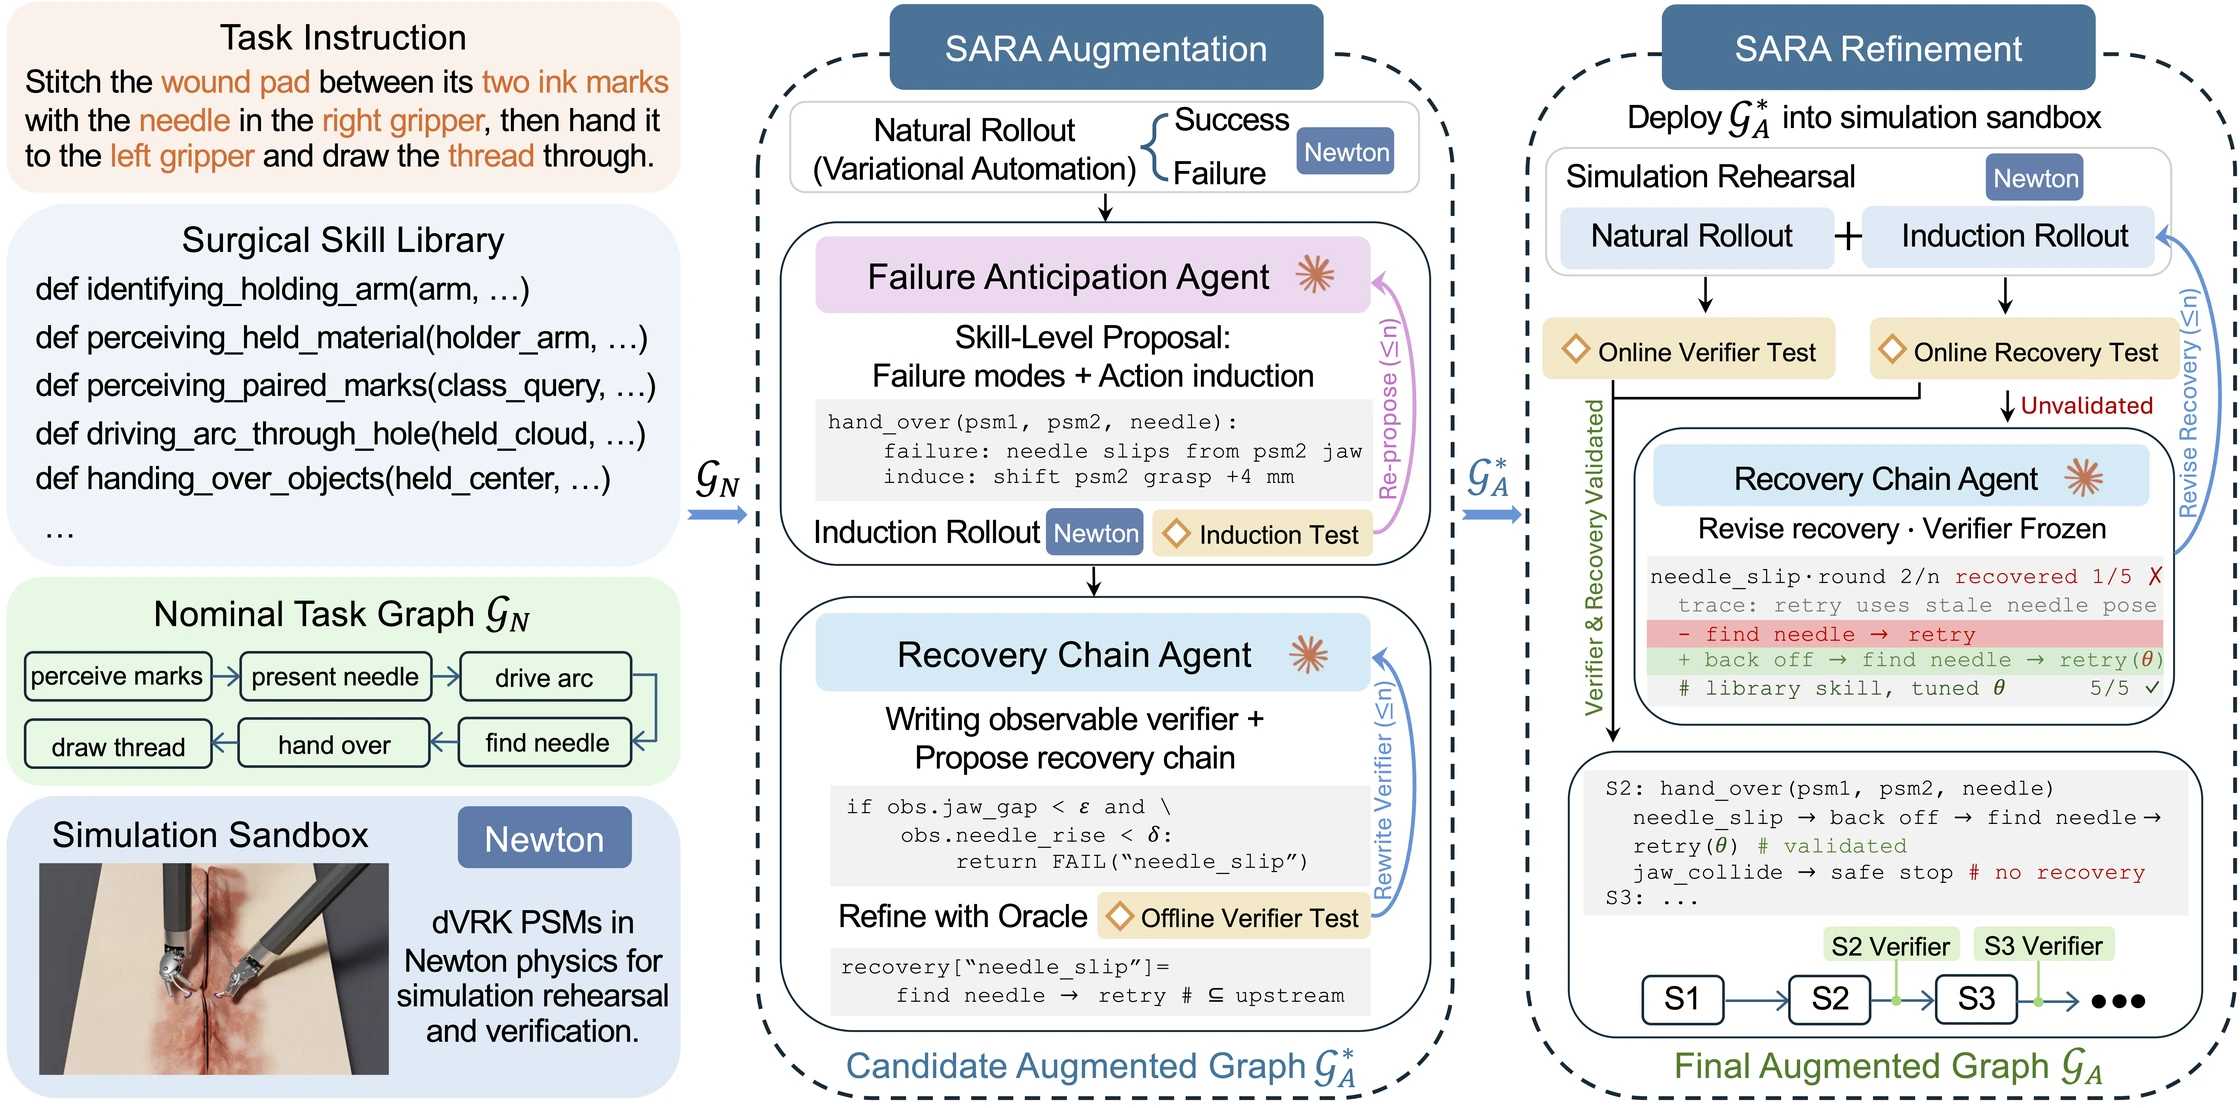
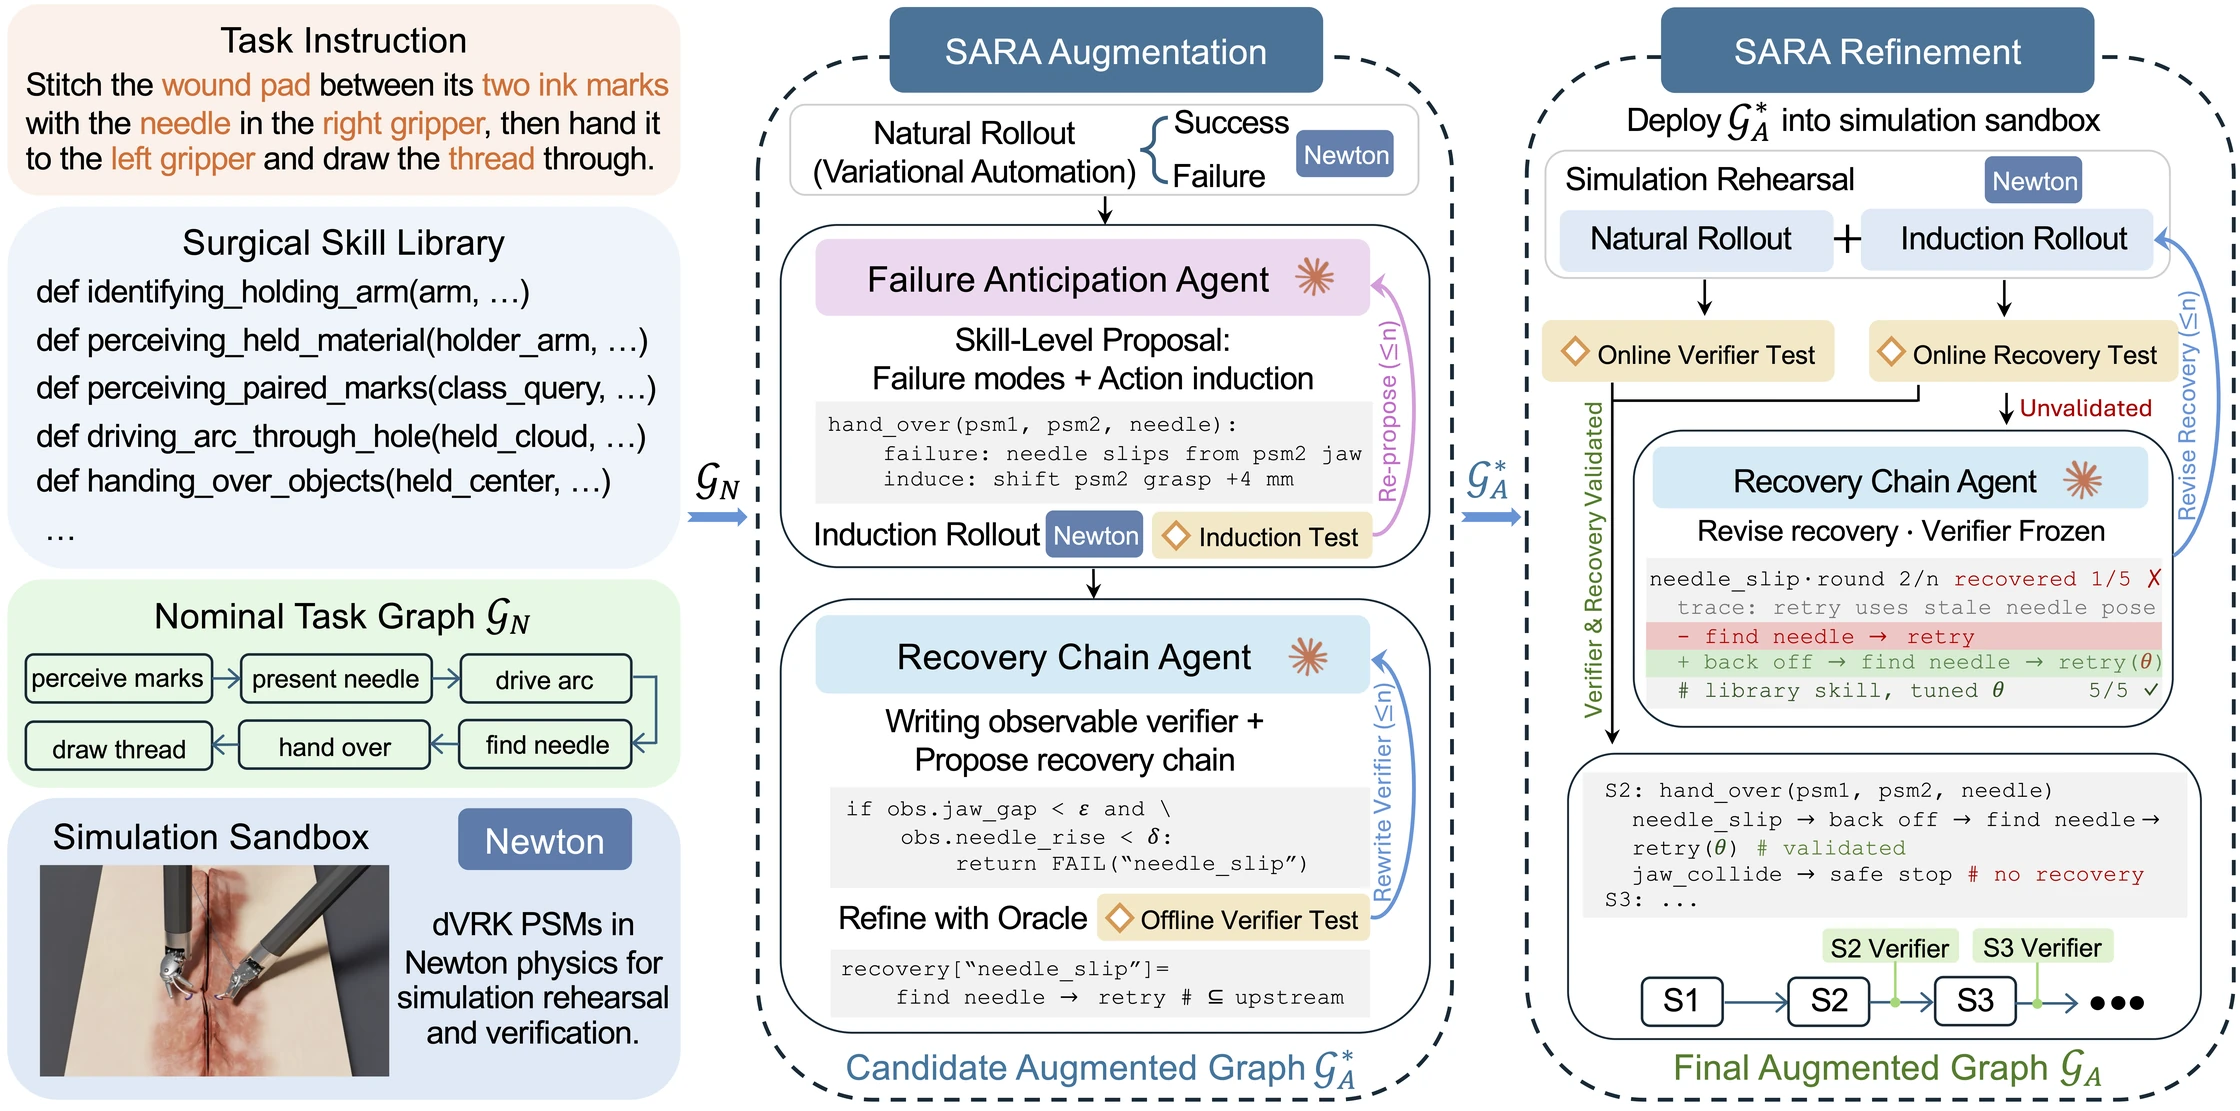
Refresh SARA pipeline figure

diff --git a/index.html b/index.html
@@ -57,7 +57,7 @@
 <section class="section method-section" id="method"><div class="container">
 <p class="method-question">Can emerging coding agents deliver augmented dexterity across diverse surgical tasks and remain reliable when failures occur?</p>
 <div class="section-heading"><h2>Method</h2></div>
-<figure class="research-figure"><button class="figure-zoom" type="button" data-image="static/images/sara_pipeline.png?v=d9c4aa31290f" aria-label="Enlarge the SARA method pipeline"><img src="static/images/sara_pipeline-1120.webp?v=d165cfbce05d" srcset="static/images/sara_pipeline-1120.webp?v=d165cfbce05d 1120w, static/images/sara_pipeline-2240.webp?v=8b9cfbffde13 2240w" sizes="(max-width: 760px) calc(100vw - 36px), (max-width: 1184px) calc(100vw - 64px), 1120px" alt="SARA agentic harness: Failure Anticipation and Recovery Chain agents augment a nominal task graph using natural and induced Newton rollouts, validate observable verifiers against privileged oracles, and refine recovery chains to produce the final augmented graph." width="2240" height="1108" loading="lazy" decoding="async"><span class="zoom-hint">Enlarge figure ↗</span></button><figcaption><strong>SARA:</strong> Two specialized agents coordinate the augmentation and refinement of a nominal task graph <math aria-label="G subscript N"><msub><mi>𝒢</mi><mi>N</mi></msub></math>. During <em>SARA Augmentation</em>, the <em>Failure Anticipation</em> agent proposes skill-level failure modes and actions to induce them in the Newton sandbox. The <em>Recovery Chain</em> agent analyzes natural and induced rollouts, synthesizes observable verifiers evaluated against privileged oracles, and proposes candidate recovery chains, yielding a candidate augmented graph <math aria-label="G subscript A star"><msubsup><mi>𝒢</mi><mi>A</mi><mo>∗</mo></msubsup></math>. During <em>SARA Refinement</em>, the candidate graph is rehearsed in the sandbox, and ineffective recovery chains are iteratively refined by tracing upstream skills or escalating to the broader skill library, with parameters tuned as needed. Only validated verifiers and recovery chains are retained in the final augmented graph <math aria-label="G subscript A"><msub><mi>𝒢</mi><mi>A</mi></msub></math> for task execution with failure recovery.</figcaption></figure>
+<figure class="research-figure"><button class="figure-zoom" type="button" data-image="static/images/sara_pipeline.png?v=dfa3b52762cb" aria-label="Enlarge the SARA method pipeline"><img src="static/images/sara_pipeline-1120.webp?v=b635947ed0ae" srcset="static/images/sara_pipeline-1120.webp?v=b635947ed0ae 1120w, static/images/sara_pipeline-2240.webp?v=fabdd332c343 2240w" sizes="(max-width: 760px) calc(100vw - 36px), (max-width: 1184px) calc(100vw - 64px), 1120px" alt="SARA agentic harness: Failure Anticipation and Recovery Chain agents augment a nominal task graph using natural and induced Newton rollouts, validate observable verifiers against privileged oracles, and refine recovery chains to produce the final augmented graph." width="2240" height="1111" loading="lazy" decoding="async"><span class="zoom-hint">Enlarge figure ↗</span></button><figcaption><strong>SARA:</strong> Two specialized agents coordinate the augmentation and refinement of a nominal task graph <math aria-label="G subscript N"><msub><mi>𝒢</mi><mi>N</mi></msub></math>. During <em>SARA Augmentation</em>, the <em>Failure Anticipation</em> agent proposes skill-level failure modes and actions to induce them in the Newton sandbox. The <em>Recovery Chain</em> agent analyzes natural and induced rollouts, synthesizes observable verifiers evaluated against privileged oracles, and proposes candidate recovery chains, yielding a candidate augmented graph <math aria-label="G subscript A star"><msubsup><mi>𝒢</mi><mi>A</mi><mo>∗</mo></msubsup></math>. During <em>SARA Refinement</em>, the candidate graph is rehearsed in the sandbox, and ineffective recovery chains are iteratively refined by tracing upstream skills or escalating to the broader skill library, with parameters tuned as needed. Only validated verifiers and recovery chains are retained in the final augmented graph <math aria-label="G subscript A"><msub><mi>𝒢</mi><mi>A</mi></msub></math> for task execution with failure recovery.</figcaption></figure>
 </div></section>
 <section class="section results-section" id="simulation"><div class="container">
 <div class="section-heading"><h2>Simulation</h2><p>Eight surgical tasks in Newton-based simulation.</p></div>

diff --git a/README.md b/README.md
@@ -119,8 +119,8 @@ sequences. Responsive 1120px/2240px WebP previews (approximately 141/335 KB) loa
 eagerly with high priority instead of the 9.7 MB PNG. The previews preserve the
 source color profile. Clicking first shows the cached preview, then replaces it
 with the original full-resolution image once loaded. Method also uses responsive
-1120px/2240px WebP previews (approximately 132/308 KB), loaded lazily with
-asynchronous decoding; its 8729×4318 PNG is fetched when enlarged. Both research figures have
+1120px/2240px WebP previews (approximately 132/306 KB), loaded lazily with
+asynchronous decoding; its 8737×4335 PNG is fetched when enlarged. Both research figures have
 full-width, 16px explanatory captions with an emphasized opening title. The captions
 use native inline MathML for the nominal, candidate augmented, and final augmented
 graphs, without a separate math-rendering script. Agent names and method phases are
@@ -192,7 +192,7 @@ All other intervals show normal execution.
 
 - Overview original: `static/images/abstract.png` (5545×3313, unchanged; loaded on zoom and used by social metadata).
 - Overview previews: `static/images/abstract-1120.webp` and `static/images/abstract-2240.webp` (responsive, content-versioned URLs).
-- Method original: `static/images/sara_pipeline.png` (8729×4318, preserved for zoom).
+- Method original: `static/images/sara_pipeline.png` (8737×4335, preserved for zoom).
 - Method previews: `static/images/sara_pipeline-1120.webp` and `static/images/sara_pipeline-2240.webp` (responsive, content-versioned URLs).
 - Video posters: `static/images/posters/`.
 - Published physical videos: `static/videos_web/` (H.264, original resolution, fast-start MP4).
